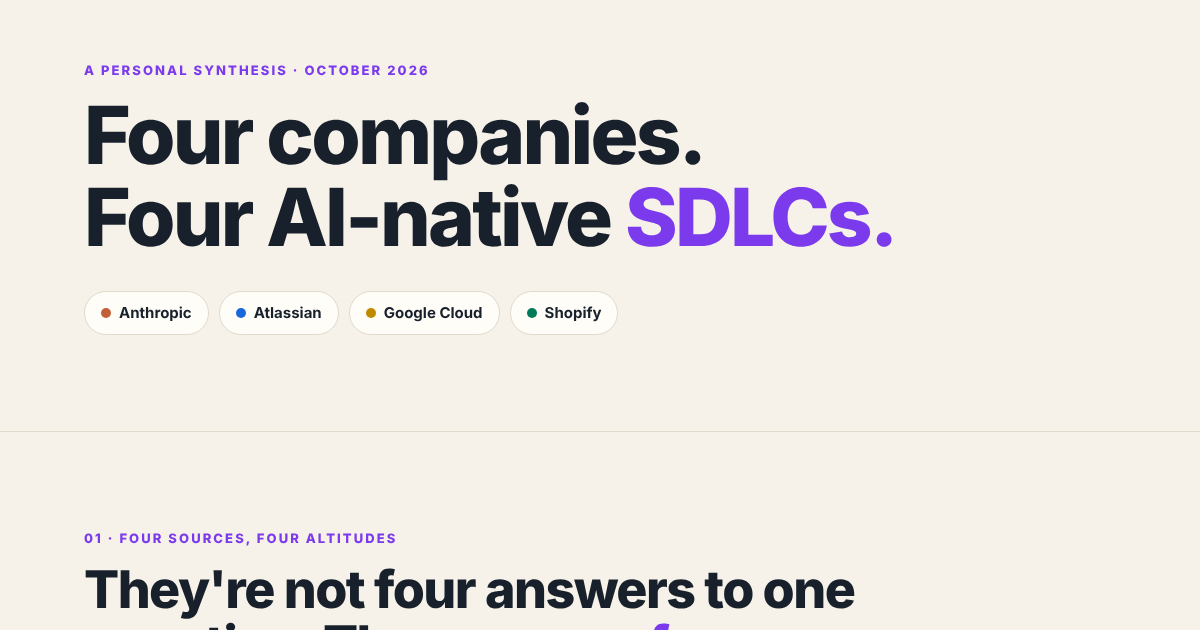
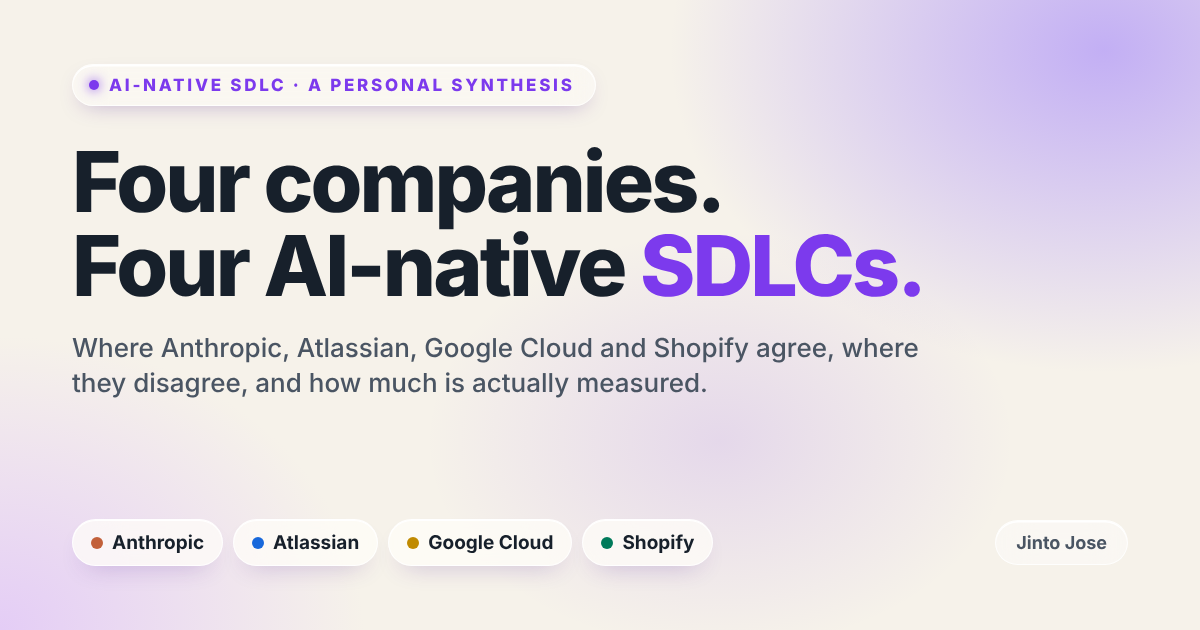
Liquid Glass styling for the research page and a new link preview
Claude-Session: https://claude.ai/code/session_01SPdeeGGUtS7iuupokJXZ99

diff --git a/docs/index.html b/docs/index.html
@@ -173,6 +173,55 @@ footer{padding:28px 0 48px;background:var(--night);color:#6F7B8C;font-size:13px}
 }
 @media (min-width:561px){.grow .dots::before{content:none}}
 .dark .kicker{color:#C084FC}
+
+/* ===== Liquid Glass layer (Notio Spiritus violet) ===== */
+:root{--mat:rgba(255,253,248,.74);--hair:rgba(255,255,255,.85);--matd:rgba(30,26,46,.66);--haird:rgba(255,255,255,.10);--blur:blur(24px) saturate(1.4)}
+body{background:#F6F2EA}
+section{border-top:none;background:
+  radial-gradient(700px 420px at 95% 0%,rgba(167,139,250,.40),transparent 70%),
+  radial-gradient(600px 420px at 0% 85%,rgba(216,180,254,.38),transparent 70%)}
+section.hero{background:
+  radial-gradient(760px 520px at 88% 10%,rgba(167,139,250,.60),transparent 70%),
+  radial-gradient(620px 460px at 8% 95%,rgba(216,180,254,.55),transparent 70%),
+  radial-gradient(500px 360px at 55% 60%,rgba(124,58,237,.12),transparent 70%)}
+section.dark{background:
+  radial-gradient(760px 520px at 92% 0%,rgba(124,58,237,.50),transparent 70%),
+  radial-gradient(600px 460px at 0% 90%,rgba(168,85,247,.28),transparent 70%),#0F0C18}
+footer{background:#0F0C18}
+/* content layer: regular material */
+.chip,.card,.stage,.d,.gov,.q3{background:var(--mat);-webkit-backdrop-filter:var(--blur);backdrop-filter:var(--blur);
+  border-color:var(--hair);box-shadow:inset 0 1px 0 rgba(255,255,255,.95),0 16px 36px -18px rgba(76,29,149,.28)}
+.card{border-top:6px solid var(--c,var(--accent))}
+.cell{background:rgba(246,242,234,.70)}
+.card .type{background:rgba(124,58,237,.08);color:#5B21B6}
+.grow:first-child{background:rgba(237,228,255,.6)}
+.q3{border:1.5px solid var(--hair)}
+.agree div,.e,.step,.links a{background:var(--matd);-webkit-backdrop-filter:var(--blur);backdrop-filter:var(--blur);
+  border:1px solid var(--haird);box-shadow:inset 0 1px 0 rgba(255,255,255,.12),0 18px 40px -20px rgba(0,0,0,.6)}
+.e{border-left:6px solid var(--c)}
+.agree i,.step::before{box-shadow:inset 0 2px 0 rgba(255,255,255,.45),0 6px 16px -4px rgba(124,58,237,.7)}
+.links a:hover{border-color:rgba(192,132,252,.7);background:rgba(76,29,149,.35)}
+/* functional layer: Liquid Glass (nav, buttons) */
+nav.top{top:12px;margin:12px auto 0;max-width:1060px;width:calc(100% - 24px);border-radius:999px;border:1px solid rgba(255,255,255,.75);
+  background:rgba(250,247,255,.66);-webkit-backdrop-filter:blur(30px) saturate(1.6);backdrop-filter:blur(30px) saturate(1.6);
+  box-shadow:inset 0 1.5px 0 rgba(255,255,255,.95),inset 0 -1px 0 rgba(124,58,237,.08),0 10px 30px -12px rgba(76,29,149,.35)}
+nav.top .wrap{height:52px;padding:0 22px}
+.bar{background:linear-gradient(90deg,#a855f7,#7c3aed);box-shadow:0 0 12px rgba(168,85,247,.7)}
+.btn{border:1.5px solid rgba(255,255,255,.8);background:rgba(255,255,255,.45);-webkit-backdrop-filter:blur(18px) saturate(1.5);backdrop-filter:blur(18px) saturate(1.5);
+  box-shadow:inset 0 1.5px 0 rgba(255,255,255,.95),0 8px 22px -10px rgba(76,29,149,.35);transition:transform .2s,box-shadow .2s}
+.btn.primary{background:linear-gradient(180deg,rgba(168,85,247,.95),rgba(124,58,237,.95));border-color:rgba(255,255,255,.55);color:#fff;
+  box-shadow:inset 0 2px 0 rgba(255,255,255,.5),inset 0 -2px 6px rgba(76,29,149,.5),0 12px 28px -8px rgba(124,58,237,.6)}
+.btn:hover{border-color:rgba(255,255,255,.95);transform:translateY(-1px)}
+.btn.primary:hover{background:linear-gradient(180deg,#a855f7,#6d28d9)}
+.btn:focus-visible,nav.top a:focus-visible,.links a:focus-visible{outline:3px solid #7c3aed;outline-offset:3px}
+/* accessibility fallbacks */
+@media (prefers-reduced-transparency:reduce){
+  nav.top,.btn,.chip,.card,.stage,.d,.gov,.q3{background:#FFFDF8;-webkit-backdrop-filter:none;backdrop-filter:none}
+  .agree div,.e,.step,.links a{background:#1B1530;-webkit-backdrop-filter:none;backdrop-filter:none}
+  .btn.primary{background:#7c3aed}}
+@media (prefers-contrast:more){.chip,.card,.stage,.d,.gov,.q3,nav.top,.btn{background:#fff;border-color:#17202B}}
+@media (prefers-reduced-motion:reduce){.btn{transition:none}.btn:hover{transform:none}}
+@media (max-width:560px){nav.top{border-radius:18px;top:8px;width:calc(100% - 16px)}}
 </style>
 </head>
 <body>
